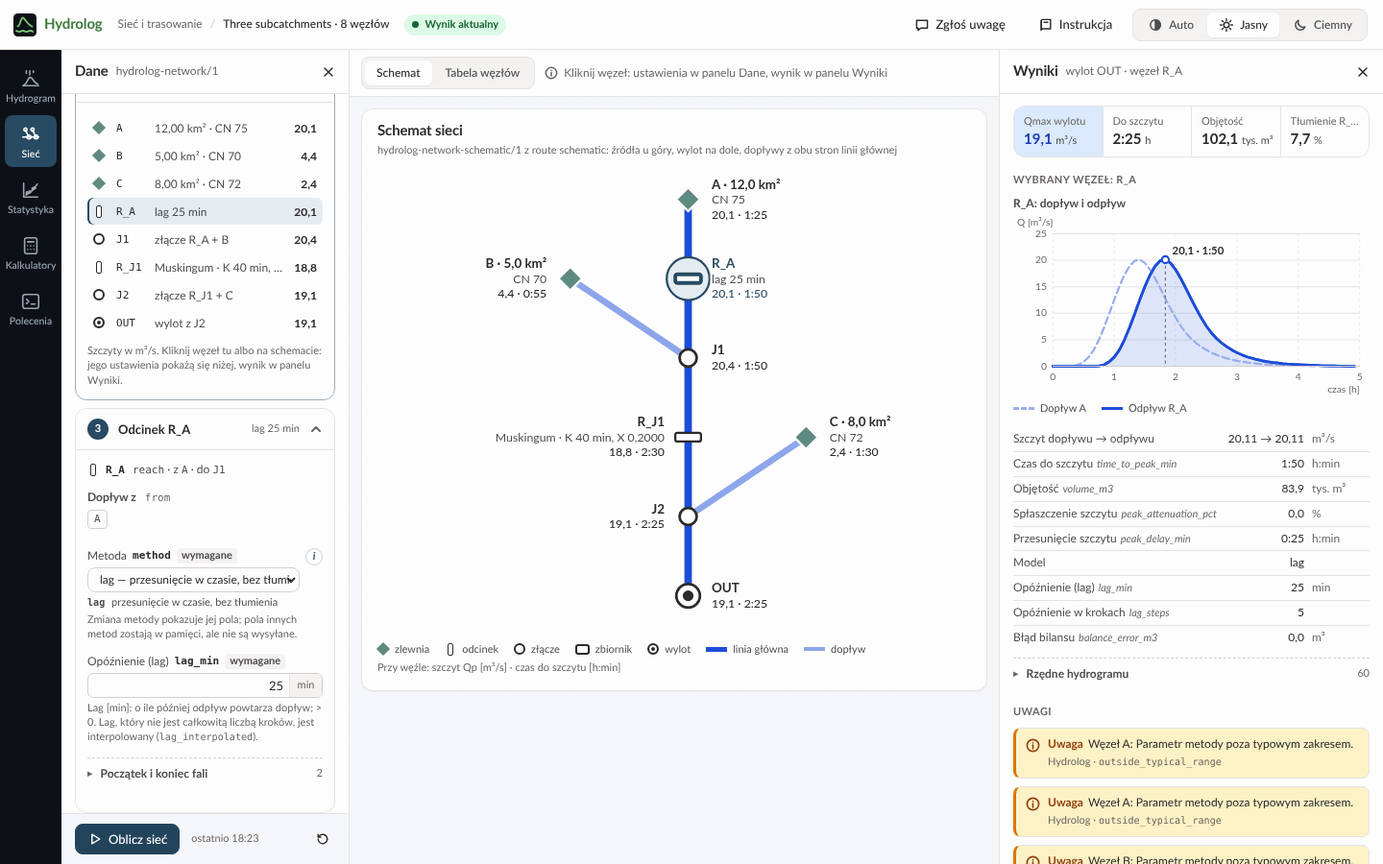
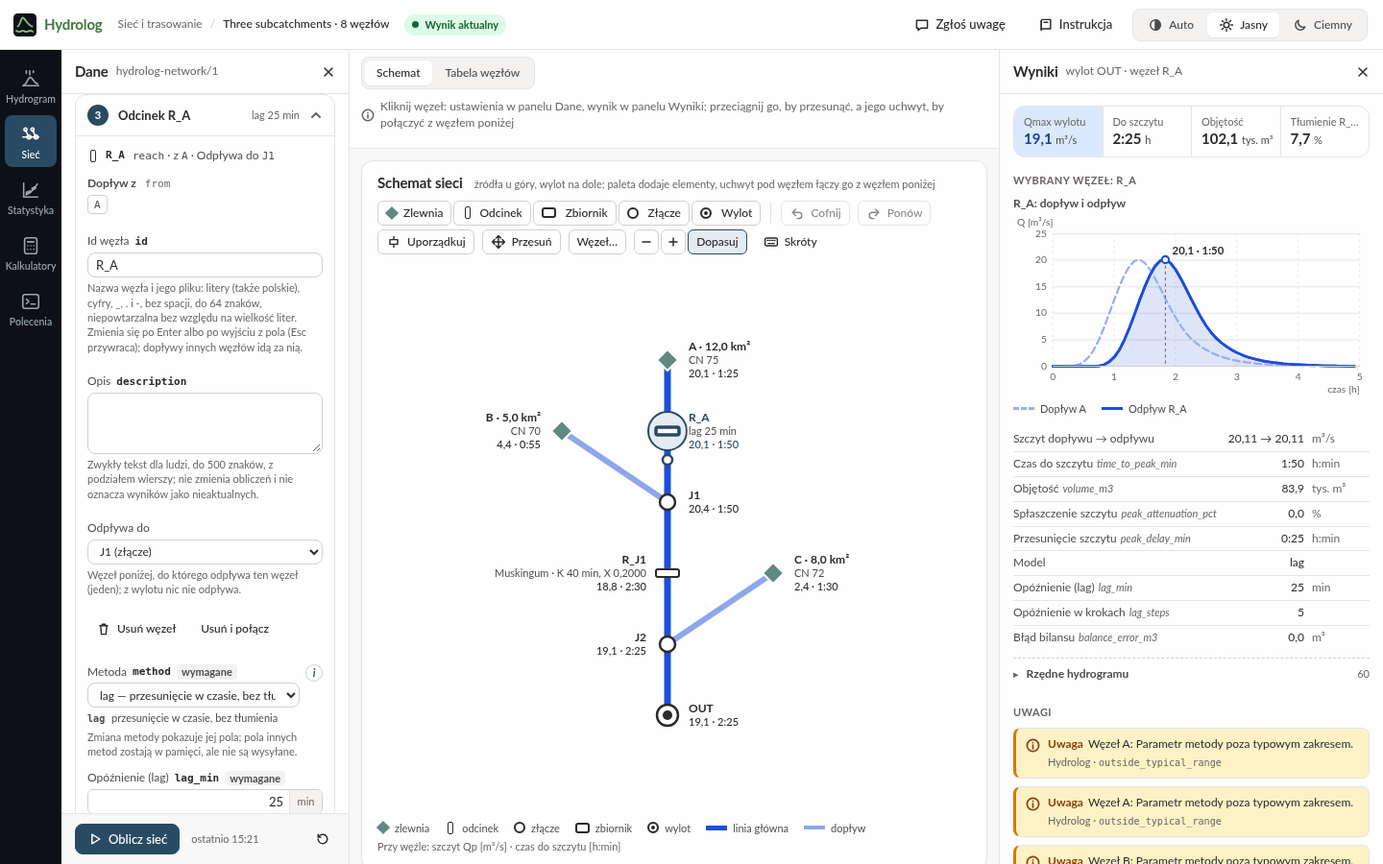
docs(guide): building a network in Sieć, its elements and keys
Chapter 03 describes the editor of Sieć i trasowanie: starting with
„Nowa sieć”, a file or a hand-off; the palette's five elements beside
the elements of HEC-HMS; adding, linking, „Wstaw złącze”, removing,
ids and descriptions, moving and „Uporządkuj”, „Problemy sieci”,
undo, saving and „Dodaj zlewnię z Hydrografa”; every key of
„Skróty”. The example's table names the flow paths of A and B, so it
alone builds the network from „Nowa sieć” to the same outlet values.
Chapters 07 to 09 cover the hand-off in Sieć, the editor on a phone,
the stored positions and the editor's messages.

siec.png and telefon.png are taken again (the phone now shows Sieć)
and siec-edycja.png shows a problem and the junction offer.

diff --git a/src/hydrolog/gui/web/instrukcja/index.html b/src/hydrolog/gui/web/instrukcja/index.html
@@ -259,17 +259,73 @@
 <section class="part" id="siec" aria-labelledby="siec-title">
   <p class="kicker">03 · Sekcja</p>
   <h2 id="siec-title">Sieć i trasowanie</h2>
-  <p>Kilka zlewni połączonych korytami, zbiornikami i złączami, aż do jednego wylotu. Hydrolog liczy hydrogram każdej zlewni, przeprowadza fale przez odcinki i zbiorniki i sumuje je w złączach. W przeciwieństwie do Hydrogramu zlewni sieć liczy się na przycisk „Oblicz sieć”.</p>
+  <p>Kilka zlewni połączonych korytami, zbiornikami i złączami, aż do jednego wylotu. Sieć budujesz na schemacie, podobnie jak model zlewni w programie HEC-HMS: dodajesz elementy, łączysz każdy z elementem poniżej, nadajesz im nazwy i opisy, a parametry wpisujesz w panelu „Dane”. Hydrolog liczy hydrogram każdej zlewni, przeprowadza fale przez odcinki i zbiorniki i sumuje je w złączach. W przeciwieństwie do Hydrogramu zlewni sieć liczy się na przycisk „Oblicz sieć”.</p>
   <figure>
-    <a href="img/siec.png"><img src="img/siec.png" width="1440" height="900" loading="lazy" alt="Sieć i trasowanie po obliczeniu przykładu: schemat pionowy ze zlewniami A, B i C, odcinkami R_A i R_J1, złączami J1 i J2 i wylotem OUT na dole, przy każdym węźle szczyt i czas do szczytu; w panelu Dane ustawienia odcinka R_A (metoda lag, 25 min), w panelu Wyniki dopływ i odpływ odcinka R_A oraz kafelki wylotu: 19,1 m³/s po 2:25 h."></a>
-    <figcaption>Przykład po „Oblicz sieć”, z wybranym odcinkiem R_A.</figcaption>
+    <a href="img/siec.png"><img src="img/siec.png" width="1440" height="900" loading="lazy" alt="Sieć i trasowanie po obliczeniu przykładu: nad schematem paleta elementów Zlewnia, Odcinek, Zbiornik, Złącze i Wylot oraz przyciski Cofnij, Ponów, Uporządkuj, Przesuń, Węzeł…, pomniejszenie, powiększenie, Dopasuj i Skróty; schemat pionowy ze zlewniami A, B i C, odcinkami R_A i R_J1, złączami J1 i J2 i wylotem OUT na dole, przy każdym węźle szczyt i czas do szczytu; w panelu Dane wybrany odcinek R_A z polami Id węzła, Opis i Odpływa do (J1) oraz metodą lag 25 min, w panelu Wyniki dopływ i odpływ odcinka R_A oraz kafelki wylotu: 19,1 m³/s po 2:25 h."></a>
+    <figcaption>Przykład po „Oblicz sieć”, z wybranym odcinkiem R_A; nad schematem paleta i narzędzia edycji.</figcaption>
   </figure>
   <ul>
-    <li><strong>Sieć</strong> pochodzi z pliku dokumentu sieci (<code>hydrolog-network/1</code>, „Plik sieci…”) razem z plikami, które czyta („Pliki towarzyszące…”: dopływy, tabele zbiorników), albo z przekazania („Wczytaj z Hydrografa”, zob. <a href="#przekazanie">Przekazanie</a>). Na początku sekcja jest pusta: nie ma sieci ani schematu. „Zapisz sieć” pobiera dokument ze zmianami. Układ połączeń pochodzi z pliku: zmieniasz parametry węzłów, nie to, co z czym się łączy.</li>
-    <li><strong>Schemat</strong> jest rysowany pionowo: źródła u góry, wylot na dole, linia główna prosto, dopływy z boków. Kliknij węzeł (albo przejdź do niego klawiszem <kbd>Tab</kbd> i naciśnij <kbd>Enter</kbd> lub spację): jego ustawienia otworzą się w panelu „Dane”, a wynik w panelu „Wyniki”. Te same węzły są na liście w panelu „Dane” i w widoku „Tabela węzłów”.</li>
-    <li><strong>Ustawienia węzła</strong> zależą od jego rodzaju: zlewnia (powierzchnia, CN, opad), odcinek (metoda: lag, Muskingum, Muskingum-Cunge, kaskada zbiorników albo level-pool, i jej parametry), zbiornik (tabela pojemność–odpływ), złącze, wylot. Po zmianie plakietka mówi „Dane zmienione: oblicz ponownie”, a wyniki są oznaczone jako dotyczące poprzednich danych.</li>
+    <li><strong>Sieć</strong> zaczynasz w kroku „Sieć” panelu „Dane”: „Nowa sieć” otwiera pusty schemat, „Plik sieci…” wczytuje dokument sieci (<code>hydrolog-network/1</code>) razem z plikami, które czyta („Pliki towarzyszące…”: dopływy, tabele zbiorników), a „Wczytaj z Hydrografa” otwiera przekazanie (zob. <a href="#przekazanie">Przekazanie</a>). Na początku sekcja jest pusta. W tym samym kroku są nazwa i opis sieci, jej krok czasowy i opad domyślny zlewni.</li>
+    <li><strong>Schemat</strong> jest rysowany pionowo: źródła u góry, wylot na dole. Węzeł stoi na tym polu siatki, na które go postawisz; sieć z pliku bez położeń węzłów Hydrolog układa sam: linia główna prosto, dopływy z boków. Kliknij węzeł: jego ustawienia otworzą się w panelu „Dane”, a wynik w panelu „Wyniki”. Te same węzły są na liście w kroku „Węzły” i w widoku „Tabela węzłów”, z opisem i węzłem, do którego odpływają.</li>
+    <li><strong>Ustawienia węzła</strong> (krok 3): id, opis, „Odpływa do” i parametry zależne od rodzaju węzła: zlewnia (powierzchnia, CN, opad), odcinek (metoda: lag, Muskingum, Muskingum-Cunge, kaskada zbiorników albo level-pool, i jej parametry), zbiornik (tabela pojemność–odpływ), złącze, wylot. Po zmianie parametru, id albo połączeń plakietka mówi „Dane zmienione: oblicz ponownie”, a wyniki są oznaczone jako dotyczące poprzednich danych. Przesunięcie węzła i opis nie zmieniają wyniku.</li>
     <li><strong>Wyniki</strong>: przy każdym węźle schematu szczyt i czas do szczytu; w panelu „Wyniki” kafelki wylotu, a dla wybranego węzła jego hydrogram (dla odcinka dopływ i odpływ), parametry i rzędne.</li>
   </ul>
+
+  <h3 id="elementy-sieci">Elementy sieci</h3>
+  <p>Paleta nad schematem ma pięć elementów. Odpowiadają elementom modelu zlewni HEC-HMS; źródło HEC-HMS zastępuje zlewnia z podanym hydrogramem, a rozdziału wody Hydrolog nie ma.</p>
+  <table class="dtable guide-table wrap">
+    <caption>Elementy palety i ich odpowiedniki w HEC-HMS</caption>
+    <thead><tr><th scope="col">Element</th><th scope="col">W HEC-HMS</th><th scope="col">Co robi</th><th scope="col">Dopływy</th></tr></thead>
+    <tbody>
+      <tr><th scope="row">Zlewnia</th><td>Subbasin, Source</td><td>daje hydrogram: z opadu, podany (czasy i przepływy) albo z kolumny pliku dopływów</td><td>żadnego</td></tr>
+      <tr><th scope="row">Odcinek</th><td>Reach</td><td>przesuwa i spłaszcza falę: lag, Muskingum, Muskingum-Cunge, kaskada zbiorników albo level-pool</td><td>dokładnie jeden</td></tr>
+      <tr><th scope="row">Zbiornik</th><td>Reservoir</td><td>zatrzymuje część fali według krzywej pojemność–odpływ</td><td>dokładnie jeden</td></tr>
+      <tr><th scope="row">Złącze</th><td>Junction</td><td>sumuje dopływy</td><td>co najmniej jeden</td></tr>
+      <tr><th scope="row">Wylot</th><td>Sink</td><td>koniec sieci: jego hydrogram jest wynikiem; w sieci jest dokładnie jeden</td><td>dokładnie jeden</td></tr>
+      <tr><th scope="row">brak</th><td>Diversion</td><td>rozdziału nie ma: każdy węzeł odpływa do jednego węzła poniżej, więc woda nie dzieli się na dwie drogi</td><td>–</td></tr>
+    </tbody>
+  </table>
+  <p>Nowy element dostaje id <code>Z1</code>, <code>R1</code>, <code>ZB1</code> albo <code>J1</code> z pierwszym wolnym numerem, a wylot <code>OUT</code>; możesz je zmienić. Id jest nazwą węzła i jego pliku wyników: litery (także polskie), cyfry, <code>_</code>, <code>.</code> i <code>-</code>, bez spacji, do 64 znaków, różne bez względu na wielkość liter. Inne słowa wpisz w „Opis”: zwykły tekst do 500 znaków, także w kilku wierszach.</p>
+
+  <h3 id="budowanie-sieci">Budowanie sieci</h3>
+  <figure class="card-figure">
+    <a href="img/siec-edycja.png"><img src="img/siec-edycja.png" width="652" height="700" loading="lazy" alt="Schemat sieci w trakcie edycji: lista „Problemy sieci (1)” z problemem „Węzeł C nie odpływa do żadnego węzła: połącz go z węzłem poniżej.”, zlewnia C ze znakiem „!” z boku schematu, a nad schematem pytanie „Wstawić złącze?”: R_J1 przyjmuje jeden dopływ i ma już J1, złącze nad R_J1 zbierze J1 i C; przyciski Wstaw złącze i Anuluj."></a>
+    <figcaption>Problem na schemacie i pytanie o złącze po przeciągnięciu uchwytu C na odcinek R_J1.</figcaption>
+  </figure>
+  <dl class="defs">
+    <div><dt>Dodawanie</dt><dd>Przeciągnij element z palety na wolne pole schematu albo kliknij element, a potem wolne pole. Najwygodniej zacząć od wylotu i dodawać elementy nad nim. Klawisz <kbd>D</kbd> na węźle (albo „Dodaj dopływ…” w menu węzła) stawia nowy element na wolnym polu nad nim i od razu łączy go z tym węzłem. „Dodaj węzeł” w kroku „Węzły” stawia element obok wybranego węzła, bez połączeń.</dd></div>
+    <div><dt>Łączenie</dt><dd>Każdy węzeł poza wylotem odpływa do jednego węzła poniżej. Przeciągnij uchwyt (kółko pod węzłem) na węzeł, do którego ma odpływać; w trakcie cel pokazuje „✓” albo „⊘” z przyczyną. Bez przeciągania: „Połącz z…” w menu węzła i kliknięcie celu, klawisz <kbd>P</kbd> i strzałki, albo pole „Odpływa do” w ustawieniach węzła. Nowe połączenie zastępuje dotychczasowe. Pętli, dopływu do zlewni ani odpływu z wylotu nie da się zrobić, a komunikat mówi dlaczego. Drugi dopływ do odcinka, zbiornika albo wylotu, które przyjmują jeden, kończy się pytaniem „Wstawić złącze?”: złącze nad tym węzłem zbierze oba dopływy.</dd></div>
+    <div><dt>Odłączanie i usuwanie</dt><dd>Kliknij połączenie i naciśnij <kbd>Delete</kbd>, albo wybierz „Odłącz” (<kbd>O</kbd>) w menu węzła, albo „brak” w polu „Odpływa do”. „Usuń” (<kbd>Delete</kbd> albo „Usuń węzeł” w ustawieniach) usuwa węzeł z jego połączeniami, a „Usuń i połącz” dodatkowo łączy jego jedyny dopływ z węzłem poniżej.</dd></div>
+    <div><dt>Id i opis</dt><dd>„Zmień id” w menu węzła albo <kbd>F2</kbd> przenosi do pola „Id węzła”. Nowe id obowiązuje po <kbd>Enter</kbd> albo po wyjściu z pola, a połączenia innych węzłów idą za nim; zlewnia, która czytała kolumnę pliku dopływów pod dawnym id, czyta ją dalej. „Opis” węzła i „Opis sieci” (krok „Sieć”) nie zmieniają obliczeń; opis węzła widać w jego podpowiedzi i w „Tabeli węzłów”.</dd></div>
+    <div><dt>Przesuwanie i układ</dt><dd>Przeciągnij węzeł na wolne pole, naciśnij <kbd>Shift</kbd> ze strzałką albo wybierz „Przesuń” i kliknij wolne pole. „Uporządkuj” ustawia węzły tak, jak układa je Hydrolog; działa, gdy Hydrolog może odczytać sieć, czyli gdy węzły mają komplet danych. Do tego czasu sieć z pliku bez położeń stoi w rzędach oznaczonych „Układ tymczasowy”. „−”, „+” i „Dopasuj” zmieniają powiększenie.</dd></div>
+    <div><dt>Problemy</dt><dd>Po każdej zmianie strona sprawdza budowę sieci tak, jak sprawdza ją Hydrolog: lista „Problemy sieci” nad schematem wymienia wszystkie problemy naraz (np. węzeł, który nigdzie nie odpływa, pętlę, brak wylotu, niepełne dane węzła), węzeł z problemem ma znak „!”, a kliknięcie problemu wybiera jego węzeł. Gdy lista nie jest pusta, „Oblicz sieć” niczego nie liczy, tylko wybiera węzeł pierwszego problemu. Gdy krawędź biegnie przez inny węzeł, mówi o tym wskazówka: obliczeń to nie zmienia, a „Uporządkuj” rozkłada sieć bez takich przejść.</dd></div>
+    <div><dt>Cofnij i ponów</dt><dd>„Cofnij” i „Ponów” (<kbd>Ctrl</kbd>+<kbd>Z</kbd>; <kbd>Ctrl</kbd>+<kbd>Shift</kbd>+<kbd>Z</kbd> albo <kbd>Ctrl</kbd>+<kbd>Y</kbd>) cofają i przywracają do 100 zmian: dodanie, połączenie, przesunięcie, zmianę id albo parametru. Sieć zostaje w przeglądarce po ponownym otwarciu strony, historia zmian nie.</dd></div>
+    <div><dt>Zapisywanie</dt><dd>„Zapisz sieć” pobiera dokument sieci z położeniami i opisami węzłów: otwarty ponownie wygląda tak samo, a schemat, który rysuje z niego Hydrolog (<code>route network --schematic</code>, „Schemat Hydrologa” w eksporcie), jest tym samym obrazem. Sieć z problemami zapisuje ten sam przycisk jako „Zapisz szkic”: Hydrolog policzy ją dopiero po poprawieniu problemów, a strona otworzy ją jak każdy plik. „Wyczyść” i „Nowa sieć” pytają, zanim zamkną sieć zmienioną od otwarcia albo zapisu.</dd></div>
+    <div><dt>Zlewnia z Hydrografa</dt><dd>„Dodaj zlewnię z Hydrografa” w kroku „Sieć” dodaje do otwartej sieci zlewnie z przekazania, bez jego wylotu, na wolnych polach górnego rzędu schematu; potem połącz je z siecią. Id, które sieć już ma, dostaje kolejny numer (<code>Z1</code> staje się <code>Z2</code>), a opisem zlewni zostaje temat przekazania. Sieć zachowuje swój krok czasowy, a opad przekazania, inny niż opad sieci, staje się opadem tej zlewni.</dd></div>
+  </dl>
+
+  <h3 id="klawisze-schematu">Klawisze schematu</h3>
+  <p>Schemat jest jednym przystankiem klawisza <kbd>Tab</kbd>; dalej między węzłami przechodzą strzałki. Litery i znaki z tabeli działają tylko wtedy, gdy schemat ma fokus, a w polu tekstowym działa zwykłe cofanie przeglądarki. Tę samą listę pokazuje przycisk „Skróty” albo klawisz <kbd>?</kbd>. Całą sieć zbudujesz samą klawiaturą: <kbd>Enter</kbd> na elemencie palety stawia go obok wybranego węzła.</p>
+  <table class="dtable guide-table wrap">
+    <caption>Klawisze, gdy fokus jest na węźle schematu</caption>
+    <thead><tr><th scope="col">Klawisze</th><th scope="col">Działanie</th></tr></thead>
+    <tbody>
+      <tr><th scope="row">strzałki</th><td>najbliższy węzeł w tym kierunku</td></tr>
+      <tr><th scope="row"><kbd>Enter</kbd>, spacja</th><td>wybierz węzeł: ustawienia w panelu „Dane”</td></tr>
+      <tr><th scope="row"><kbd>Shift</kbd> + strzałka</th><td>przesuń węzeł o jedno pole</td></tr>
+      <tr><th scope="row"><kbd>D</kbd></th><td>dodaj dopływ: menu rodzajów elementu</td></tr>
+      <tr><th scope="row"><kbd>P</kbd></th><td>połącz z węzłem poniżej: strzałki wybierają cel, <kbd>Enter</kbd> łączy</td></tr>
+      <tr><th scope="row"><kbd>O</kbd></th><td>odłącz od węzła poniżej</td></tr>
+      <tr><th scope="row"><kbd>Delete</kbd></th><td>usuń węzeł albo wybrane połączenie</td></tr>
+      <tr><th scope="row"><kbd>F2</kbd></th><td>zmień id: pole w panelu „Dane”</td></tr>
+      <tr><th scope="row"><kbd>Shift</kbd>+<kbd>F10</kbd>, klawisz menu</th><td>menu węzła (także prawy przycisk myszy, długie dotknięcie albo „Węzeł…”)</td></tr>
+      <tr><th scope="row"><kbd>Ctrl</kbd>+<kbd>Z</kbd></th><td>cofnij</td></tr>
+      <tr><th scope="row"><kbd>Ctrl</kbd>+<kbd>Shift</kbd>+<kbd>Z</kbd>, <kbd>Ctrl</kbd>+<kbd>Y</kbd></th><td>ponów</td></tr>
+      <tr><th scope="row"><kbd>+</kbd>, <kbd>−</kbd></th><td>powiększ, pomniejsz</td></tr>
+      <tr><th scope="row"><kbd>?</kbd></th><td>pokaż albo ukryj listę skrótów</td></tr>
+      <tr><th scope="row"><kbd>Esc</kbd></th><td>przerwij przesuwanie, dodawanie albo łączenie</td></tr>
+    </tbody>
+  </table>
 
   <h3 id="przyklad-siec">Przykład: trzy zlewnie</h3>
   <p>Pobierz plik przykładu <a href="przyklady/siec.json" download="siec.json"><code>siec.json</code></a>. W sekcji Sieć naciśnij „Plik sieci…” i wybierz pobrany plik: na schemacie pojawi się osiem węzłów. Sieć nie czyta innych plików, więc „Pliki towarzyszące…” nie są potrzebne.</p>
@@ -277,8 +333,8 @@
     <caption>Węzły sieci z pliku przykładu</caption>
     <thead><tr><th scope="col">Węzeł</th><th scope="col">Dane</th></tr></thead>
     <tbody>
-      <tr><th scope="row">A · zlewnia</th><td>12&nbsp;km², CN 75; własny opad: Euler II, 45&nbsp;mm w 60&nbsp;min</td></tr>
-      <tr><th scope="row">B · zlewnia</th><td>5&nbsp;km², CN 70; własny opad: seria co 5&nbsp;min (0; 2; 5; 10; 12; 6; 3&nbsp;mm)</td></tr>
+      <tr><th scope="row">A · zlewnia</th><td>12&nbsp;km², CN 75, najdłuższa droga spływu 6&nbsp;km o spadku 0,02&nbsp;m/m; własny opad: Euler II, 45&nbsp;mm w 60&nbsp;min</td></tr>
+      <tr><th scope="row">B · zlewnia</th><td>5&nbsp;km², CN 70, najdłuższa droga spływu 3,5&nbsp;km o spadku 0,0229&nbsp;m/m; własny opad: szereg co 5&nbsp;min (0; 2; 5; 10; 12; 6; 3&nbsp;mm)</td></tr>
       <tr><th scope="row">C · zlewnia</th><td>8&nbsp;km², CN 72, tc 60&nbsp;min; opad sieci: blokowy, 30&nbsp;mm w 60&nbsp;min</td></tr>
       <tr><th scope="row">R_A · odcinek</th><td>z A, metoda lag, 25&nbsp;min</td></tr>
       <tr><th scope="row">J1 · złącze</th><td>R_A i B</td></tr>
@@ -287,6 +343,7 @@
     </tbody>
   </table>
   <p>Naciśnij „Oblicz sieć”. Wynik: wylot OUT ma szczyt <span class="ex" data-example="siec-q">19,1&nbsp;m³/s</span> po <span class="ex" data-example="siec-tp">2:25&nbsp;h</span>.</p>
+  <p><strong>Ta sama sieć od zera.</strong> Naciśnij „Nowa sieć” i postaw z palety osiem elementów tak jak na obrazku: u góry zlewnię A, pod nią odcinek R_A, złącze J1, odcinek R_J1, złącze J2 i wylot OUT, zlewnię B z boku nad J1, a zlewnię C z boku nad J2. Zmień ich id na te z tabeli i połącz każdy węzeł z węzłem poniżej. W kroku „Sieć” wybierz opad domyślny „Projektowy”: blokowy, 30&nbsp;mm w 60&nbsp;min. Potem wybieraj kolejno zlewnie i odcinki i wpisz ich dane z tabeli (długość i spadek drogi spływu są w „Pozostałych polach zlewni”). „Oblicz sieć” da ten sam wynik, a „Zapisz sieć” zapisze plik, który otworzy się w tym samym układzie.</p>
   <p class="hint-box"><strong>Spróbuj:</strong> wybierz odcinek R_A, zmień metodę z „lag” na „Muskingum”, wpisz K&nbsp;30&nbsp;min i X&nbsp;0,2, a potem „Oblicz sieć”. Fala spłaszczy się w korycie: szczyt na wylocie spadnie do <span class="ex" data-example="siec-q-muskingum">18,0&nbsp;m³/s</span> i nadejdzie po <span class="ex" data-example="siec-tp-muskingum">2:35&nbsp;h</span>.</p>
   <p class="back"><a href="#toc-title">↑ Spis treści</a></p>
 </section>
@@ -391,7 +448,7 @@
   <p>Hydrograf wyznacza zlewnię na mapie, a Hydrolog liczy dla niej wezbranie. Dane przechodzą między nimi jako <strong>przekazanie</strong>: plik JSON w formacie <code>nogat-handoff/1</code> ekosystemu Nogat. Niesie zlewnię albo całą sieć, pochodzenie danych (np. opad PMAXTP p&nbsp;1% w 12&nbsp;h z punktem, dla którego pobrano wysokość, plik zlewni albo punkt na mapie) i wynik do porównania.</p>
   <ul>
     <li><strong>Wysyłanie.</strong> Część „Przekazanie” na końcu panelu „Wyniki” w Hydrogramie zlewni i w Sieci: „Plik przekazania” pobiera plik <code>&lt;nazwa&gt;.handoff.json</code>, a „Do schowka” kopiuje to samo do schowka. Z Hydrogramu zlewni idzie zlewnia z opadem, stratami, modelem i wynikiem, z Sieci cała sieć, a po „Oblicz sieć” także wynik wylotu.</li>
-    <li><strong>Wczytywanie.</strong> „Wczytaj z Hydrografa” w pierwszym kroku panelu „Dane” (w Hydrogramie zlewni krok „Zlewnia”, w Sieci krok „Sieć”), a w nim „Plik przekazania…” albo „Wklej ze schowka”. Gdy przeglądarka nie daje dostępu do schowka, pojawia się pole, w które wklejasz przekazanie (<kbd>Ctrl</kbd>+<kbd>V</kbd>). Jedna zlewnia, z opadem albo bez, otwiera się w Hydrogramie zlewni, każda inna sieć w Sieci i trasowaniu. Karta w panelu „Dane” mówi, skąd są dane, np. „Z Hydrografa: zlewnia punktu 51,0154° N, 15,8900° E”. Opad PMAXTP otwiera się z punktem opadu, a bez niego z punktem zlewni: gdy przekazanie podaje punkt opadu, jego wysokość zostaje taka, jak w przekazaniu; w przeciwnym razie Hydrolog pobiera wysokość dla punktu zlewni. Przekazanie bez żadnego punktu otwiera opad jako „Hietogram” z wysokością i czasem trwania z przekazania. Sama zlewnia, bez opadu (tak Hydrograf przekazuje zlewnię, zanim policzy hydrogram), otwiera się z opadem PMAXTP w punkcie zlewni i bez modelu: wybierz prawdopodobieństwo i czas trwania w kroku „Hietogram”, a Hydrolog pobierze wysokość opadu, i model w kroku „Hydrogram”. Bez punktu zlewni krok „Hietogram” zostaje pusty.</li>
+    <li><strong>Wczytywanie.</strong> „Wczytaj z Hydrografa” w pierwszym kroku panelu „Dane” (w Hydrogramie zlewni krok „Zlewnia”, w Sieci krok „Sieć”), a w nim „Plik przekazania…” albo „Wklej ze schowka”. Gdy przeglądarka nie daje dostępu do schowka, pojawia się pole, w które wklejasz przekazanie (<kbd>Ctrl</kbd>+<kbd>V</kbd>). Jedna zlewnia, z opadem albo bez, otwiera się w Hydrogramie zlewni, każda inna sieć w Sieci i trasowaniu; „Wczytaj z Hydrografa” w Sieci otwiera tam każde przekazanie, także jedną zlewnię z wylotem. Zlewnie z przekazania do otwartej sieci dodaje „Dodaj zlewnię z Hydrografa” (zob. <a href="#budowanie-sieci">Budowanie sieci</a>). Karta w panelu „Dane” mówi, skąd są dane, np. „Z Hydrografa: zlewnia punktu 51,0154° N, 15,8900° E”. Opad PMAXTP otwiera się z punktem opadu, a bez niego z punktem zlewni: gdy przekazanie podaje punkt opadu, jego wysokość zostaje taka, jak w przekazaniu; w przeciwnym razie Hydrolog pobiera wysokość dla punktu zlewni. Przekazanie bez żadnego punktu otwiera opad jako „Hietogram” z wysokością i czasem trwania z przekazania. Sama zlewnia, bez opadu (tak Hydrograf przekazuje zlewnię, zanim policzy hydrogram), otwiera się z opadem PMAXTP w punkcie zlewni i bez modelu: wybierz prawdopodobieństwo i czas trwania w kroku „Hietogram”, a Hydrolog pobierze wysokość opadu, i model w kroku „Hydrogram”. Bez punktu zlewni krok „Hietogram” zostaje pusty.</li>
     <li><strong>Porównanie.</strong> Gdy przekazanie niesie wynik, część „Przekazanie” rozwija się sama i stawia go obok wyniku Hydrologa: Qmax, czas do szczytu, objętość i wersję programu, który liczył. Wartości, które się różnią, są wyróżnione; zwykle to skutek innej wersji Hydrologa, której używa Hydrograf. Po zmianie danych porównanie przypomina, że wynik producenta dotyczy danych z przekazania. W Sieci wynik Hydrologa do porównania daje „Oblicz sieć”.</li>
   </ul>
   <p>Przed wczytaniem Hydrolog sprawdza przekazanie. Gdy coś się nie zgadza, niczego nie zmienia i wypisuje przyczyny (zob. <a href="#problemy">Gdy coś nie działa</a>).</p>
@@ -404,16 +461,17 @@
   <p class="kicker">08 · Wygląd i dane</p>
   <h2 id="telefon-title">Telefon, motyw i Twoje dane</h2>
   <figure class="inline-figure phone-figure">
-    <a href="img/telefon.png"><img src="img/telefon.png" width="390" height="844" loading="lazy" alt="Hydrolog na telefonie w ciemnym motywie: panel Wyniki wysunięty od dołu nad paskiem sekcji, z kafelkami Qmax 54,20 m³/s, Do szczytu 6:40 h, Objętość 977 225 m³ i Wsp. odpływu 0,258 oraz uwagami."></a>
-    <figcaption>Telefon, ciemny motyw: panel „Wyniki” jako arkusz.</figcaption>
+    <a href="img/telefon.png"><img src="img/telefon.png" width="390" height="844" loading="lazy" alt="Sieć i trasowanie na telefonie w ciemnym motywie, po obliczeniu przykładu: nad schematem przyciski Dane i Wyniki, przełącznik Schemat i Tabela węzłów, a w karcie Schemat sieci przyciski Dodaj element, Cofnij, Ponów, Uporządkuj, Przesuń, Węzeł…, powiększenie, Dopasuj i Skróty; schemat od zlewni A u góry do wylotu OUT ze szczytem 19,1 m³/s po 2:25 h, na dole pasek sekcji."></a>
+    <figcaption>Telefon, ciemny motyw: Sieć z narzędziami schematu; panele „Dane” i „Wyniki” otwierają przyciski nad nim.</figcaption>
   </figure>
   <h3>Telefon i wąski ekran</h3>
   <p>Do szerokości 860&nbsp;px sekcje są na pasku u dołu ekranu, a panele „Dane” i „Wyniki” wysuwają się od dołu jako arkusze: otwierają je przyciski nad wykresem, zamyka <span class="key-mark" aria-hidden="true">×</span> albo <kbd>Esc</kbd>.</p>
+  <p>W Sieci paleta elementów jest na telefonie menu „Dodaj element”. Węzły przesuwasz palcem, menu węzła otwiera długie dotknięcie albo „Węzeł…”, a połączenia robisz także w polu „Odpływa do” w ustawieniach węzła; przesunięcie palcem po pustym miejscu przewija schemat.</p>
   <h3>Motyw</h3>
   <p>Przełącznik na górnym pasku: Auto (jak w systemie), Jasny albo Ciemny. Wybór obowiązuje też w tym przewodniku i na innych stronach ekosystemu Nogat pod tym samym adresem.</p>
   <h3>Twoje dane</h3>
   <ul>
-    <li>Dane wpisane w formularzach zostają w tej przeglądarce, osobno dla każdej sekcji, aż do „Wyczyść”; w Hydrogramie zlewni także pobrana wysokość opadu PMAXTP. Wyniki nie są zapisywane: po ponownym otwarciu strony Hydrogram zlewni liczy wynik od nowa, a w pozostałych sekcjach wystarczy nacisnąć przycisk obliczenia.</li>
+    <li>Dane wpisane w formularzach zostają w tej przeglądarce, osobno dla każdej sekcji, aż do „Wyczyść”; w Hydrogramie zlewni także pobrana wysokość opadu PMAXTP, w Sieci także położenia i opisy węzłów (bez historii „Cofnij”). Wyniki nie są zapisywane: po ponownym otwarciu strony Hydrogram zlewni liczy wynik od nowa, a w pozostałych sekcjach wystarczy nacisnąć przycisk obliczenia.</li>
     <li>Pliki, które wczytujesz, trafiają do katalogu Twojej sesji na serwerze Hydrologa i są usuwane po 12 godzinach bez aktywności albo po zatrzymaniu serwera. Limity: 20&nbsp;MB na plik, 100&nbsp;MB i 200 plików na sesję.</li>
     <li>Hydrolog nie ma kont ani logowania. Poza swój serwer wysyła tylko punkt opadu PMAXTP (szerokość i długość geograficzną) z metodą atlasu do IMGW-PIB, gdy pobiera wysokość opadu; innych danych nie wysyła.</li>
     <li>Zgłoszenie z „Zgłoś uwagę” zostaje na serwerze Hydrologa razem z adresem strony i nazwą przeglądarki, a dane diagnostyczne tylko wtedy, gdy pole „Dołącz dane diagnostyczne” jest zaznaczone. Nie ma w nich treści Twoich plików; „Pokaż co zostanie wysłane” pokazuje je przed wysłaniem.</li>
@@ -428,6 +486,9 @@
   <dl class="defs">
     <div><dt>„Dane niepełne: …”</dt><dd>Pole o tej nazwie jest puste albo ma wartość spoza zakresu; jest oznaczone na czerwono, a pod nim widać, co jest nie tak. Wynik na ekranie dotyczy poprzednich danych.</dd></div>
     <div><dt>„Błąd danych”</dt><dd>Hydrolog odrzucił dane jako całość, np. gdy długość do środka ciężkości zlewni jest większa od długości cieku. Komunikat stoi nad formularzem albo przy polu.</dd></div>
+    <div><dt>„Problemy sieci (n)”</dt><dd>Budowa sieci w Sieci nie pozwala jej policzyć, np. węzeł nigdzie nie odpływa, sieć nie ma wylotu albo węzeł ma niepełne dane. Lista nad schematem wymienia wszystkie problemy, a kliknięcie problemu wybiera jego węzeł (zob. <a href="#budowanie-sieci">Budowanie sieci</a>). Sieć z problemami zapiszesz przyciskiem „Zapisz szkic”.</dd></div>
+    <div><dt>„Nie można…”</dt><dd>Schemat odrzucił połączenie, dodanie albo przesunięcie i podaje przyczynę: pętlę, dopływ do zlewni, odpływ z wylotu albo zajęte pole. Sieć się nie zmieniła.</dd></div>
+    <div><dt>„Uporządkuj” nie działa, „Układ tymczasowy”</dt><dd>Hydrolog układa sieć dopiero wtedy, gdy może ją odczytać: uzupełnij dane węzłów i wczytaj pliki, które sieć czyta. Do tego czasu węzły stoją w rzędach według odległości od źródeł albo tam, gdzie je postawisz.</dd></div>
     <div><dt>Obliczenie przerwane</dt><dd>Obliczenie dłuższe niż 30 sekund jest przerywane. Zmniejsz zadanie, np. wydłuż krok czasowy albo skróć szereg.</dd></div>
     <div><dt>„Nie pobrano wysokości opadu PMAXTP”</dt><dd>Punkt poza atlasem (poza Polską albo na morzu) jest oznaczony przy szerokości geograficznej: popraw punkt. Gdy IMGW-PIB nie odpowiada, komunikat stoi przy wysokości opadu: sprawdź połączenie z internetem i naciśnij „Pobierz ponownie”. Wynik na ekranie dotyczy poprzednich danych.</dd></div>
     <div><dt>Komunikat z dopiskiem (EN)</dt><dd>Hydrolog nie ma jeszcze jego polskiej wersji; treść jest po angielsku.</dd></div>

diff --git a/src/hydrolog/gui/web/instrukcja/instrukcja.css b/src/hydrolog/gui/web/instrukcja/instrukcja.css
@@ -124,6 +124,7 @@ html.guide-page .topbar { position: sticky; top: 0; height: var(--header-height)
 }
 .guide-text figcaption { margin: var(--space-2) 0 0; color: var(--text-3); font-size: var(--text-sm); }
 .guide-text .inline-figure { max-width: 360px; }
+.guide-text .card-figure { max-width: 652px; }
 .guide-text .phone-figure { max-width: 240px; }
 
 .guide-table { width: auto; min-width: min(100%, 460px); margin: 0 0 var(--space-4); }
